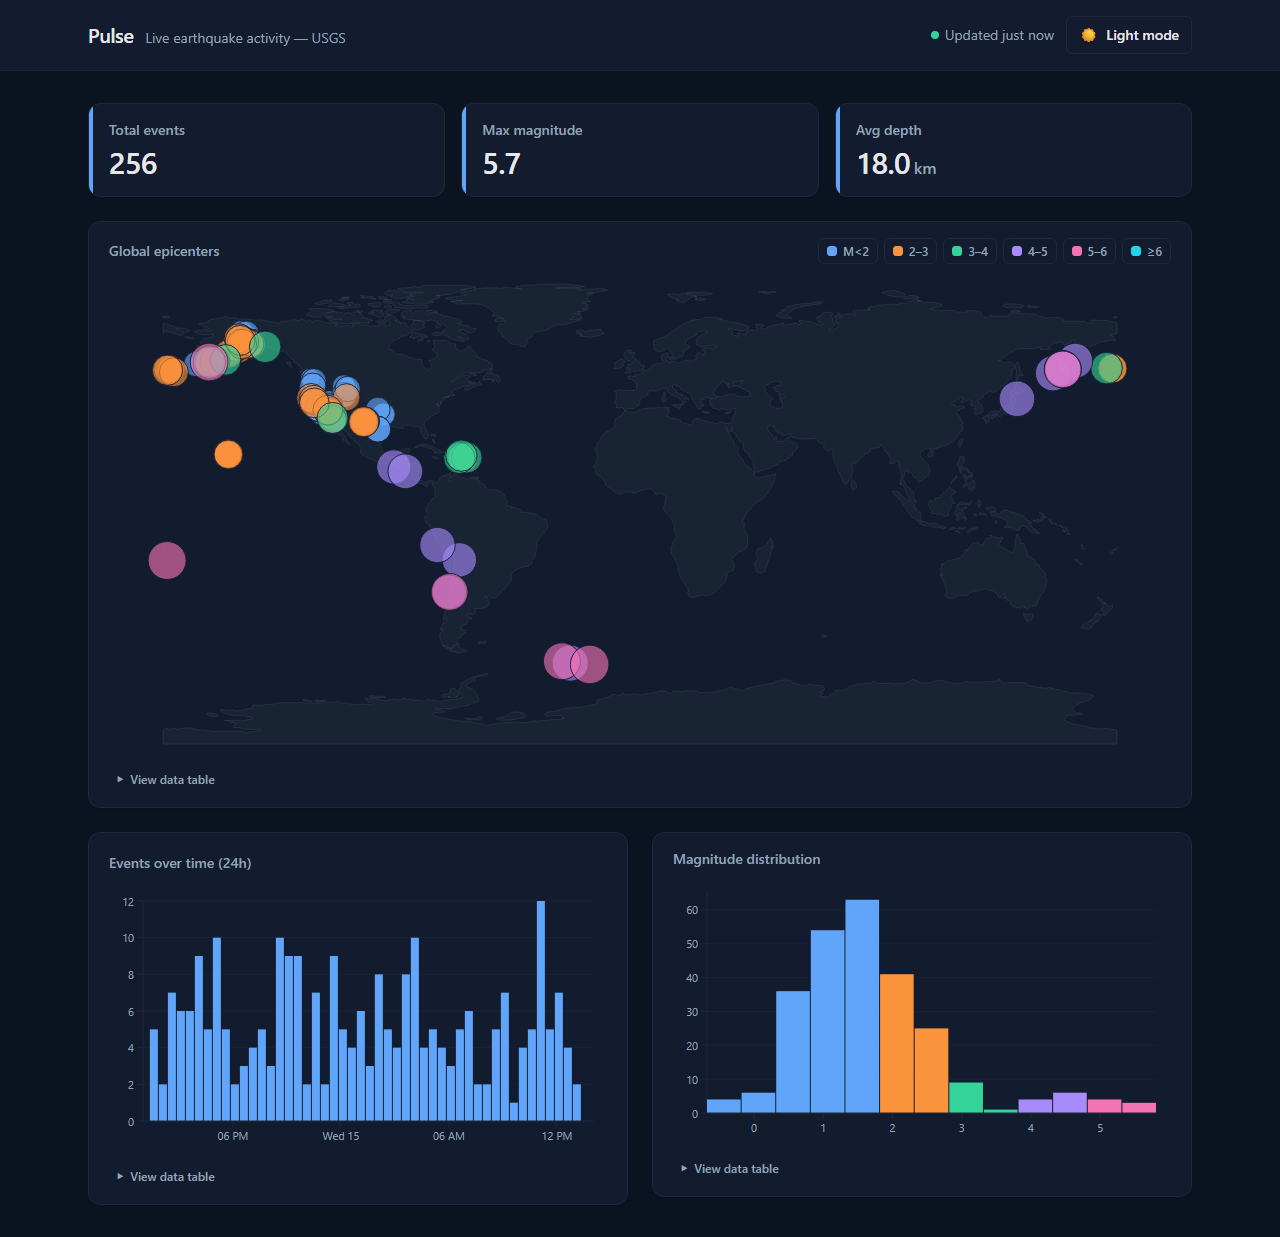
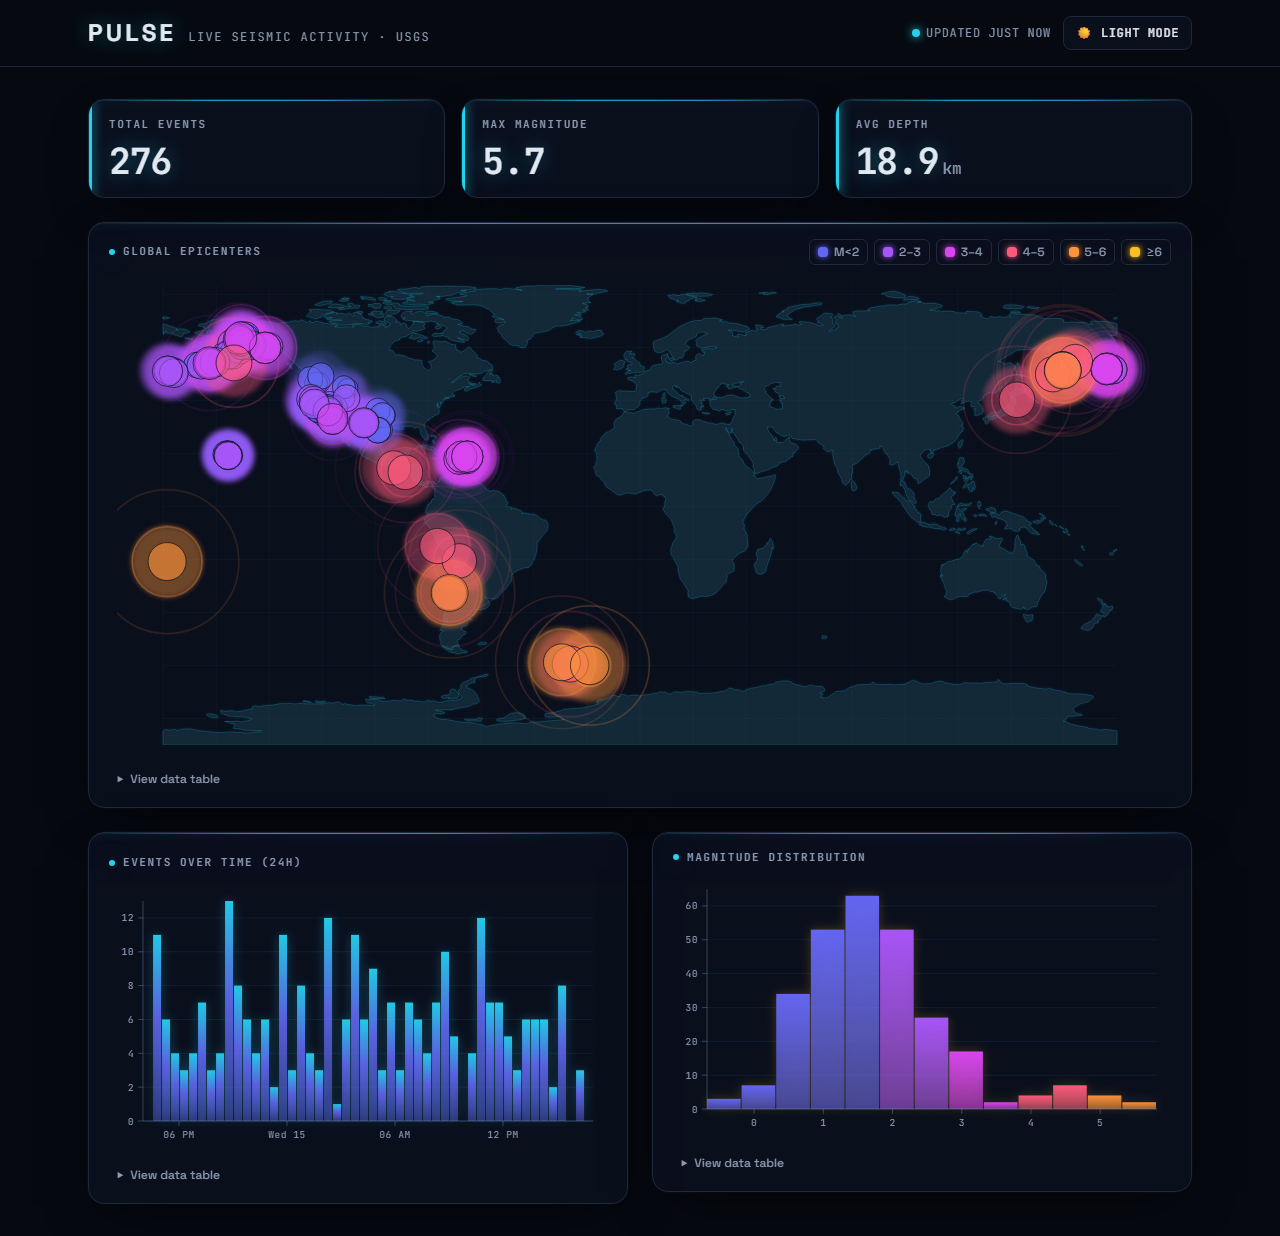
docs: update README + assets for Mission-Control redesign

diff --git a/README.md b/README.md
@@ -45,6 +45,22 @@ to it instantly — then clear it and everything animates back.*
 - **Legend series toggles.** The magnitude legend doubles as a filter — toggle a
   bucket and those events animate out of every panel at once.
 
+## Design — "Seismic Mission-Control"
+
+A cinematic, dark, ops-room aesthetic that leans into the name: earthquakes
+literally **pulse**. On the world map, significant quakes emit expanding sonar
+rings (staggered so it reads as a living field, not a strobe) over a faint
+graticule grid and glowing continent outlines; every epicenter carries a colored
+glow. Magnitude uses a **sequential "heat" ramp** (indigo→amber, monotonic
+luminance — a plasma-style scale that's colorblind-safe and reads as intensity),
+reserved separately from an electric-cyan UI accent. Glass panels, glowing mono
+figures, gradient chart bars, and a staggered first-load entrance complete it.
+
+All motion — ripples, background drift, bar draw-in, count-ups, the entrance — is
+gated behind `prefers-reduced-motion` and animates only `transform`/opacity, so it
+tweens smoothly in every browser (including WebKit/Safari) and goes fully still for
+users who ask for reduced motion. A clean light "day-ops" theme is included.
+
 ## Architecture
 
 ### Data pipeline